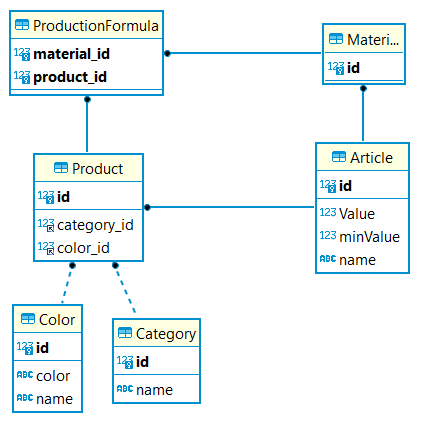
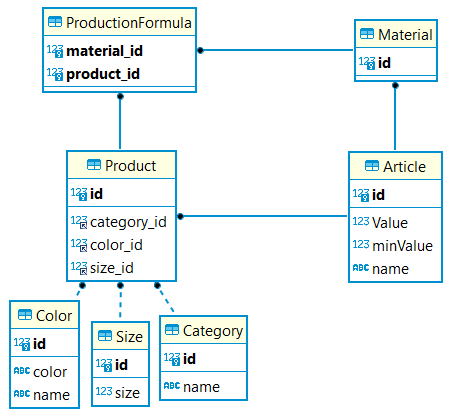
add size & update ERD

Changed region(s): [[0.0, 0.0, 0.9954, 0.9905]]

diff --git a/MultiFlex/API/RestApi/src/main/java/at/multiflex/dao/SizeDao.java b/MultiFlex/API/RestApi/src/main/java/at/multiflex/dao/SizeDao.java
@@ -1,0 +1,74 @@
+package at.multiflex.dao;
+
+import at.multiflex.dto.CategoryDto;
+import at.multiflex.dto.SizeDto;
+import at.multiflex.mapper.CategoryMapper;
+import at.multiflex.mapper.SizeMapper;
+import at.multiflex.repository.CategoryRepository;
+import at.multiflex.repository.SizeRepository;
+
+import javax.enterprise.context.Dependent;
+import javax.inject.Inject;
+import javax.ws.rs.*;
+import javax.ws.rs.core.MediaType;
+import javax.ws.rs.core.Response;
+import java.util.List;
+
+@Dependent
+@Path("/Size")
+public class SizeDao {@Inject
+    SizeRepository repository;
+
+    @Inject
+    SizeMapper mapper;
+
+    //<editor-fold desc="Get">
+    @GET
+    @Produces(MediaType.APPLICATION_JSON_PATCH_JSON)
+    public List<SizeDto> getAll() {
+        var entities = repository.loadAll();
+        return mapper.toDto(entities);
+    }
+
+    @GET
+    @Produces(MediaType.APPLICATION_JSON_PATCH_JSON)
+    @Path("/{id}")
+    public SizeDto getById(Integer id) {
+        var entity = repository.findById(id);
+        return mapper.toDto(entity);
+    }
+    //</editor-fold>
+    //<editor-fold desc="Post">
+    @POST
+    @Produces(MediaType.APPLICATION_JSON_PATCH_JSON)
+    @Path("/add")
+    public Response add(SizeDto dto) {
+        var entity = mapper.fromDto(dto);
+        repository.add(entity);
+        return Response.status(Response.Status.CREATED).build();
+    }
+    //</editor-fold>
+    //<editor-fold desc="Delete">
+    @DELETE
+    @Produces(MediaType.APPLICATION_JSON_PATCH_JSON)
+    @Path("/delete/{id}")
+    public Response delete(@PathParam("id") Integer id) {
+        var entity = repository.findById(id);
+        if(entity == null) {
+            throw new NotFoundException();
+        }
+        repository.delete(entity);
+        return Response.status(Response.Status.NO_CONTENT).build();
+    }
+    //</editor-fold>
+    //<editor-fold desc="Put">
+    @PUT
+    @Produces(MediaType.APPLICATION_JSON_PATCH_JSON)
+    @Path("/update")
+    public Response update(SizeDto dto) {
+        var entity = mapper.fromDto(dto);
+        repository.update(entity);
+        return Response.status(Response.Status.OK).build();
+    }
+    //</editor-fold>
+}

diff --git a/MultiFlex/API/RestApi/src/main/java/at/multiflex/model/Wares/Product.java b/MultiFlex/API/RestApi/src/main/java/at/multiflex/model/Wares/Product.java
@@ -2,6 +2,7 @@ package at.multiflex.model.Wares;
 
 import at.multiflex.model.Category;
 import at.multiflex.model.Color;
+import at.multiflex.model.Size;
 import lombok.AllArgsConstructor;
 import lombok.Getter;
 import lombok.NoArgsConstructor;
@@ -34,6 +35,9 @@ public class Product extends Article {
 
     @Transient
     private Integer category_id = configurateCategoryId();
+
+    @Transient
+    private Integer size_id = configurateSizeId();
         //</editor-fold>
         //<editor-fold desc="Relation">
     @ManyToMany(mappedBy = "products")
@@ -46,6 +50,10 @@ public class Product extends Article {
     @ManyToOne
     @JoinColumn(name = "category_id", nullable = false)
     private Category category;
+
+    @ManyToOne
+    @JoinColumn(name = "size_id", nullable = false)
+    private Size size;
         //</editor-fold>
         //<editor-fold desc="Transient Field configuration">
     private List<Integer> configurateMaterialIds(){
@@ -67,6 +75,12 @@ public class Product extends Article {
         }
         return null;
     }
+    private Integer configurateSizeId(){
+        if (getSize() != null && getSize().getId() != null){
+            return getSize().getId();
+        }
+        return null;
+    }
         //</editor-fold>
     //</editor-fold>
 
@@ -79,6 +93,10 @@ public class Product extends Article {
     }
 
     public Integer getCategory_id() {
+        return configurateCategoryId();
+    }
+
+    public Integer getSize_id() {
         return configurateCategoryId();
     }
 }

diff --git a/MultiFlex/API/RestApi/src/main/java/at/multiflex/model/Size.java b/MultiFlex/API/RestApi/src/main/java/at/multiflex/model/Size.java
@@ -1,0 +1,54 @@
+package at.multiflex.model;
+
+import at.multiflex.model.Wares.Product;
+import lombok.AllArgsConstructor;
+import lombok.Getter;
+import lombok.NoArgsConstructor;
+import lombok.Setter;
+
+import javax.persistence.*;
+import java.util.ArrayList;
+import java.util.HashSet;
+import java.util.List;
+import java.util.Set;
+import java.util.stream.Collectors;
+
+@Getter
+@Setter
+@AllArgsConstructor
+@NoArgsConstructor
+@Entity
+public class Size {
+    //<editor-fold desc="Common Fields">
+    @Id
+    @GeneratedValue(strategy = GenerationType.IDENTITY)
+    private Integer id;
+
+    @Column(nullable = false)
+    private Integer size;
+
+    //</editor-fold>
+    //<editor-fold desc="Navigation Help">
+    //<editor-fold desc="Transient Fields">
+    @Transient
+    private List<Integer> product_ids = configurateProductIds();
+    //</editor-fold>
+    //<editor-fold desc="Relation">
+    @OneToMany(mappedBy = "color")
+    private Set<Product> products = new HashSet<>();
+    //</editor-fold>
+    //<editor-fold desc="Transient Field configuration">
+    private List<Integer> configurateProductIds(){
+        if (getProducts() != null){
+            return getProducts().stream().map(x -> x.getId()).collect(Collectors.toList());
+        }
+        return new ArrayList<>();
+    }
+
+    public List<Integer> getProduct_ids() {
+        configurateProductIds();
+        return product_ids;
+    }
+    //</editor-fold>
+    //</editor-fold>
+}

diff --git a/MultiFlex/API/RestApi/src/main/java/at/multiflex/mapper/SizeMapper.java b/MultiFlex/API/RestApi/src/main/java/at/multiflex/mapper/SizeMapper.java
@@ -1,0 +1,46 @@
+package at.multiflex.mapper;
+
+import at.multiflex.dto.CategoryDto;
+import at.multiflex.dto.SizeDto;
+import at.multiflex.model.Category;
+import at.multiflex.model.Size;
+import at.multiflex.repository.wares.ProductRepository;
+
+import javax.enterprise.context.ApplicationScoped;
+import javax.inject.Inject;
+import java.util.LinkedList;
+import java.util.List;
+
+@ApplicationScoped
+public class SizeMapper {
+    @Inject
+    ObjectMapper om;
+
+    @Inject
+    ProductRepository productRepository;
+
+    public SizeDto toDto(Size entity) {
+        return om.toDto(entity);
+    }
+    public Size fromDto(SizeDto dto) {
+        var entity = om.fromDto(dto);
+
+        if (dto.getProduct_ids() != null){
+            entity.getProducts().forEach(x -> entity.getProducts().add(productRepository.findById(x.getId())));
+        }
+
+        return entity;
+    }
+
+    public List<SizeDto> toDto(List<Size> entities) {
+        var dtos = new LinkedList<SizeDto>();
+        entities.forEach(x -> dtos.add(om.toDto(x)));
+        return dtos;
+    }
+
+    public List<Size> fromDto(List<SizeDto> dtos) {
+        var result = new LinkedList<Size>();
+        dtos.forEach(x -> result.add(om.fromDto(x)));
+        return result;
+    }
+}

diff --git a/MultiFlex/API/RestApi/src/main/java/at/multiflex/mapper/ObjectMapper.java b/MultiFlex/API/RestApi/src/main/java/at/multiflex/mapper/ObjectMapper.java
@@ -2,11 +2,13 @@ package at.multiflex.mapper;
 
 import at.multiflex.dto.CategoryDto;
 import at.multiflex.dto.ColorDto;
+import at.multiflex.dto.SizeDto;
 import at.multiflex.dto.wares.ArticleDto;
 import at.multiflex.dto.wares.MaterialDto;
 import at.multiflex.dto.wares.ProductDto;
 import at.multiflex.model.Category;
 import at.multiflex.model.Color;
+import at.multiflex.model.Size;
 import at.multiflex.model.Wares.Article;
 import at.multiflex.model.Wares.Material;
 import at.multiflex.model.Wares.Product;
@@ -45,12 +47,19 @@ public interface ObjectMapper {
     @Mapping(target = "id")
     Color fromDto(ColorDto entity);
     //</editor-fold>
-    //<editor-fold desc="Color">
+    //<editor-fold desc="Category">
     @Mapping(target = "id")
     CategoryDto toDto(Category entity);
 
     @Mapping(target = "id")
     Category fromDto(CategoryDto entity);
+    //</editor-fold>
+    //<editor-fold desc="Size">
+    @Mapping(target = "id")
+    SizeDto toDto(Size entity);
+
+    @Mapping(target = "id")
+    Size fromDto(SizeDto entity);
     //</editor-fold>
 }
 

diff --git a/MultiFlex/API/RestApi/src/main/java/at/multiflex/repository/SizeRepository.java b/MultiFlex/API/RestApi/src/main/java/at/multiflex/repository/SizeRepository.java
@@ -1,0 +1,20 @@
+package at.multiflex.repository;
+
+import at.multiflex.model.Category;
+import at.multiflex.model.Size;
+
+import javax.enterprise.context.ApplicationScoped;
+import javax.transaction.Transactional;
+import java.util.List;
+
+@ApplicationScoped
+public class SizeRepository extends CRUDOperations{
+    @Transactional
+    public List<Size> loadAll() {
+        return em.createQuery("select x from Size x", Size.class).getResultList();
+    }
+    @Transactional
+    public Size findById(Integer id){
+        return em.createQuery("select x from Size x where x.id = :id", Size.class).setParameter("id", id).getSingleResult();
+    }
+}

diff --git a/MultiFlex/API/RestApi/src/main/java/at/multiflex/dto/SizeDto.java b/MultiFlex/API/RestApi/src/main/java/at/multiflex/dto/SizeDto.java
@@ -1,0 +1,25 @@
+package at.multiflex.dto;
+
+import lombok.AllArgsConstructor;
+import lombok.Getter;
+import lombok.NoArgsConstructor;
+import lombok.Setter;
+
+import java.util.ArrayList;
+import java.util.List;
+
+@Getter
+@Setter
+@AllArgsConstructor
+@NoArgsConstructor
+public class SizeDto {
+    //<editor-fold desc="Common Fields">
+    private Integer id;
+
+    private Integer size;
+
+    //</editor-fold>
+    //<editor-fold desc="Navigation Help">
+    private List<Integer> product_ids = new ArrayList<>();
+    //</editor-fold>
+}
